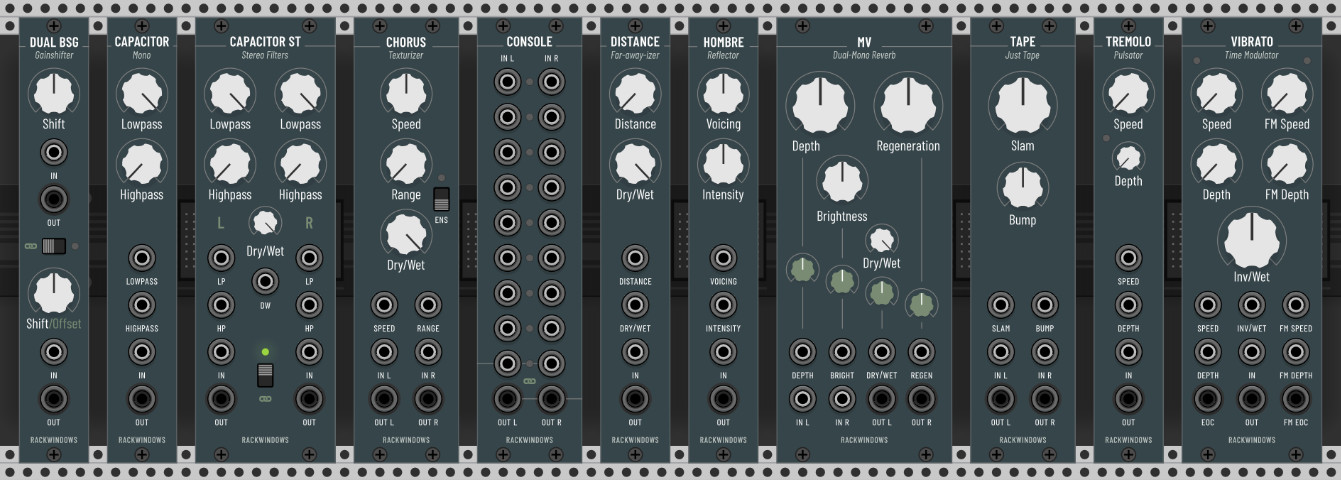
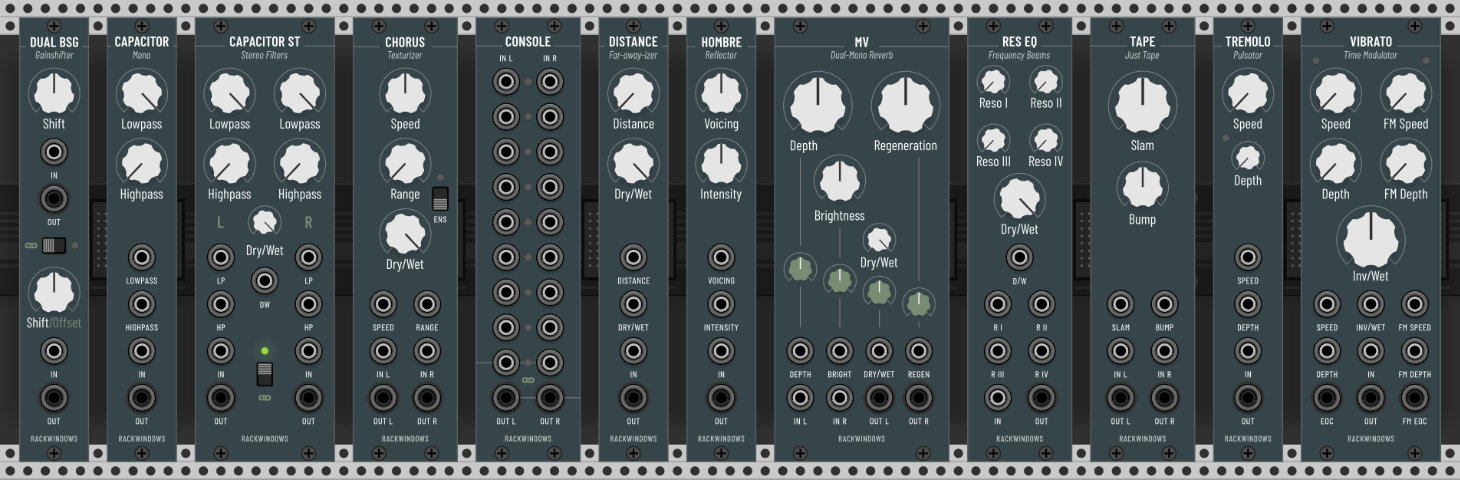
Update changelog and readme

diff --git a/readme.md b/readme.md
@@ -23,6 +23,7 @@ See [LICENSE.md](LICENSE.md) for all licenses
 - [Dual BSG](#dual-bsg): Dual gain shifter
 - [Hombre](#hombre): Texas tone and texture
 - [MV](#mv): Dual-mono reverb
+- [ResEQ](#reseq): Resonance equalizer
 - [Tape](#tape): All-purpose tape mojo
 - [Tremolo](#tremolo): Organic pulsating thing
 - [Vibrato](#vibrato): FM Vibrator o_O
@@ -96,6 +97,16 @@ Dual-mono reverb
 A reverb based on Bitshiftgain and old Alesis Midiverbs. Capable of turning everything into a pad or sustaining a 'bloom' forever. Watch your volume when using small amounts of depth with full on regeneration.
 
 [More information](http://www.airwindows.com/mv)
+
+## ResEQ <a id="reseq"></a>
+
+Resonance equalizer
+
+![Rackwindows ResEQ](res/images/reseq_panels.jpg)
+
+ResEQ passes audio through up to four adjustable frequency bands - and only those bands. All bands are similar and with identical range, but interact with each other in a particular way. They can be stacked for massive boosts or thin the signal out if set slightly apart. What sounds artificial in isolation, can be useful to highlight certain characteristics of a sound and then blend to taste with the dry/wet for more natural results.
+
+[More information](https://www.airwindows.com/reseq-vst/)
 
 ## Tape <a id="tape"></a>
 

diff --git a/changelog.md b/changelog.md
@@ -1,6 +1,11 @@
 
+### 1.0.5 (05-07-2020)
+- New module: ResEQ
+- Added/Updated low CPU mode for Chorus, Console, Distance, Hombre, MV, Tape, Tremolo and Vibrato
+- All: minor performance optimizations
+
 ### 1.0.4 (22-05-2020)
-- Now polyphonic: Dual BSG, Capacitor, Capacitor ST, Chorus, Console, Distance, Hombre, Tape, Tremolo, Vibrato
+- Now polyphonic: Dual BSG, Capacitor, Capacitor ST, Chorus, Console, Distance, Hombre, Tape, Tremolo and Vibrato
 - Capacitor, Capacitor ST: added low cpu mode
 
 ### 1.0.3 (24-04-2020)
